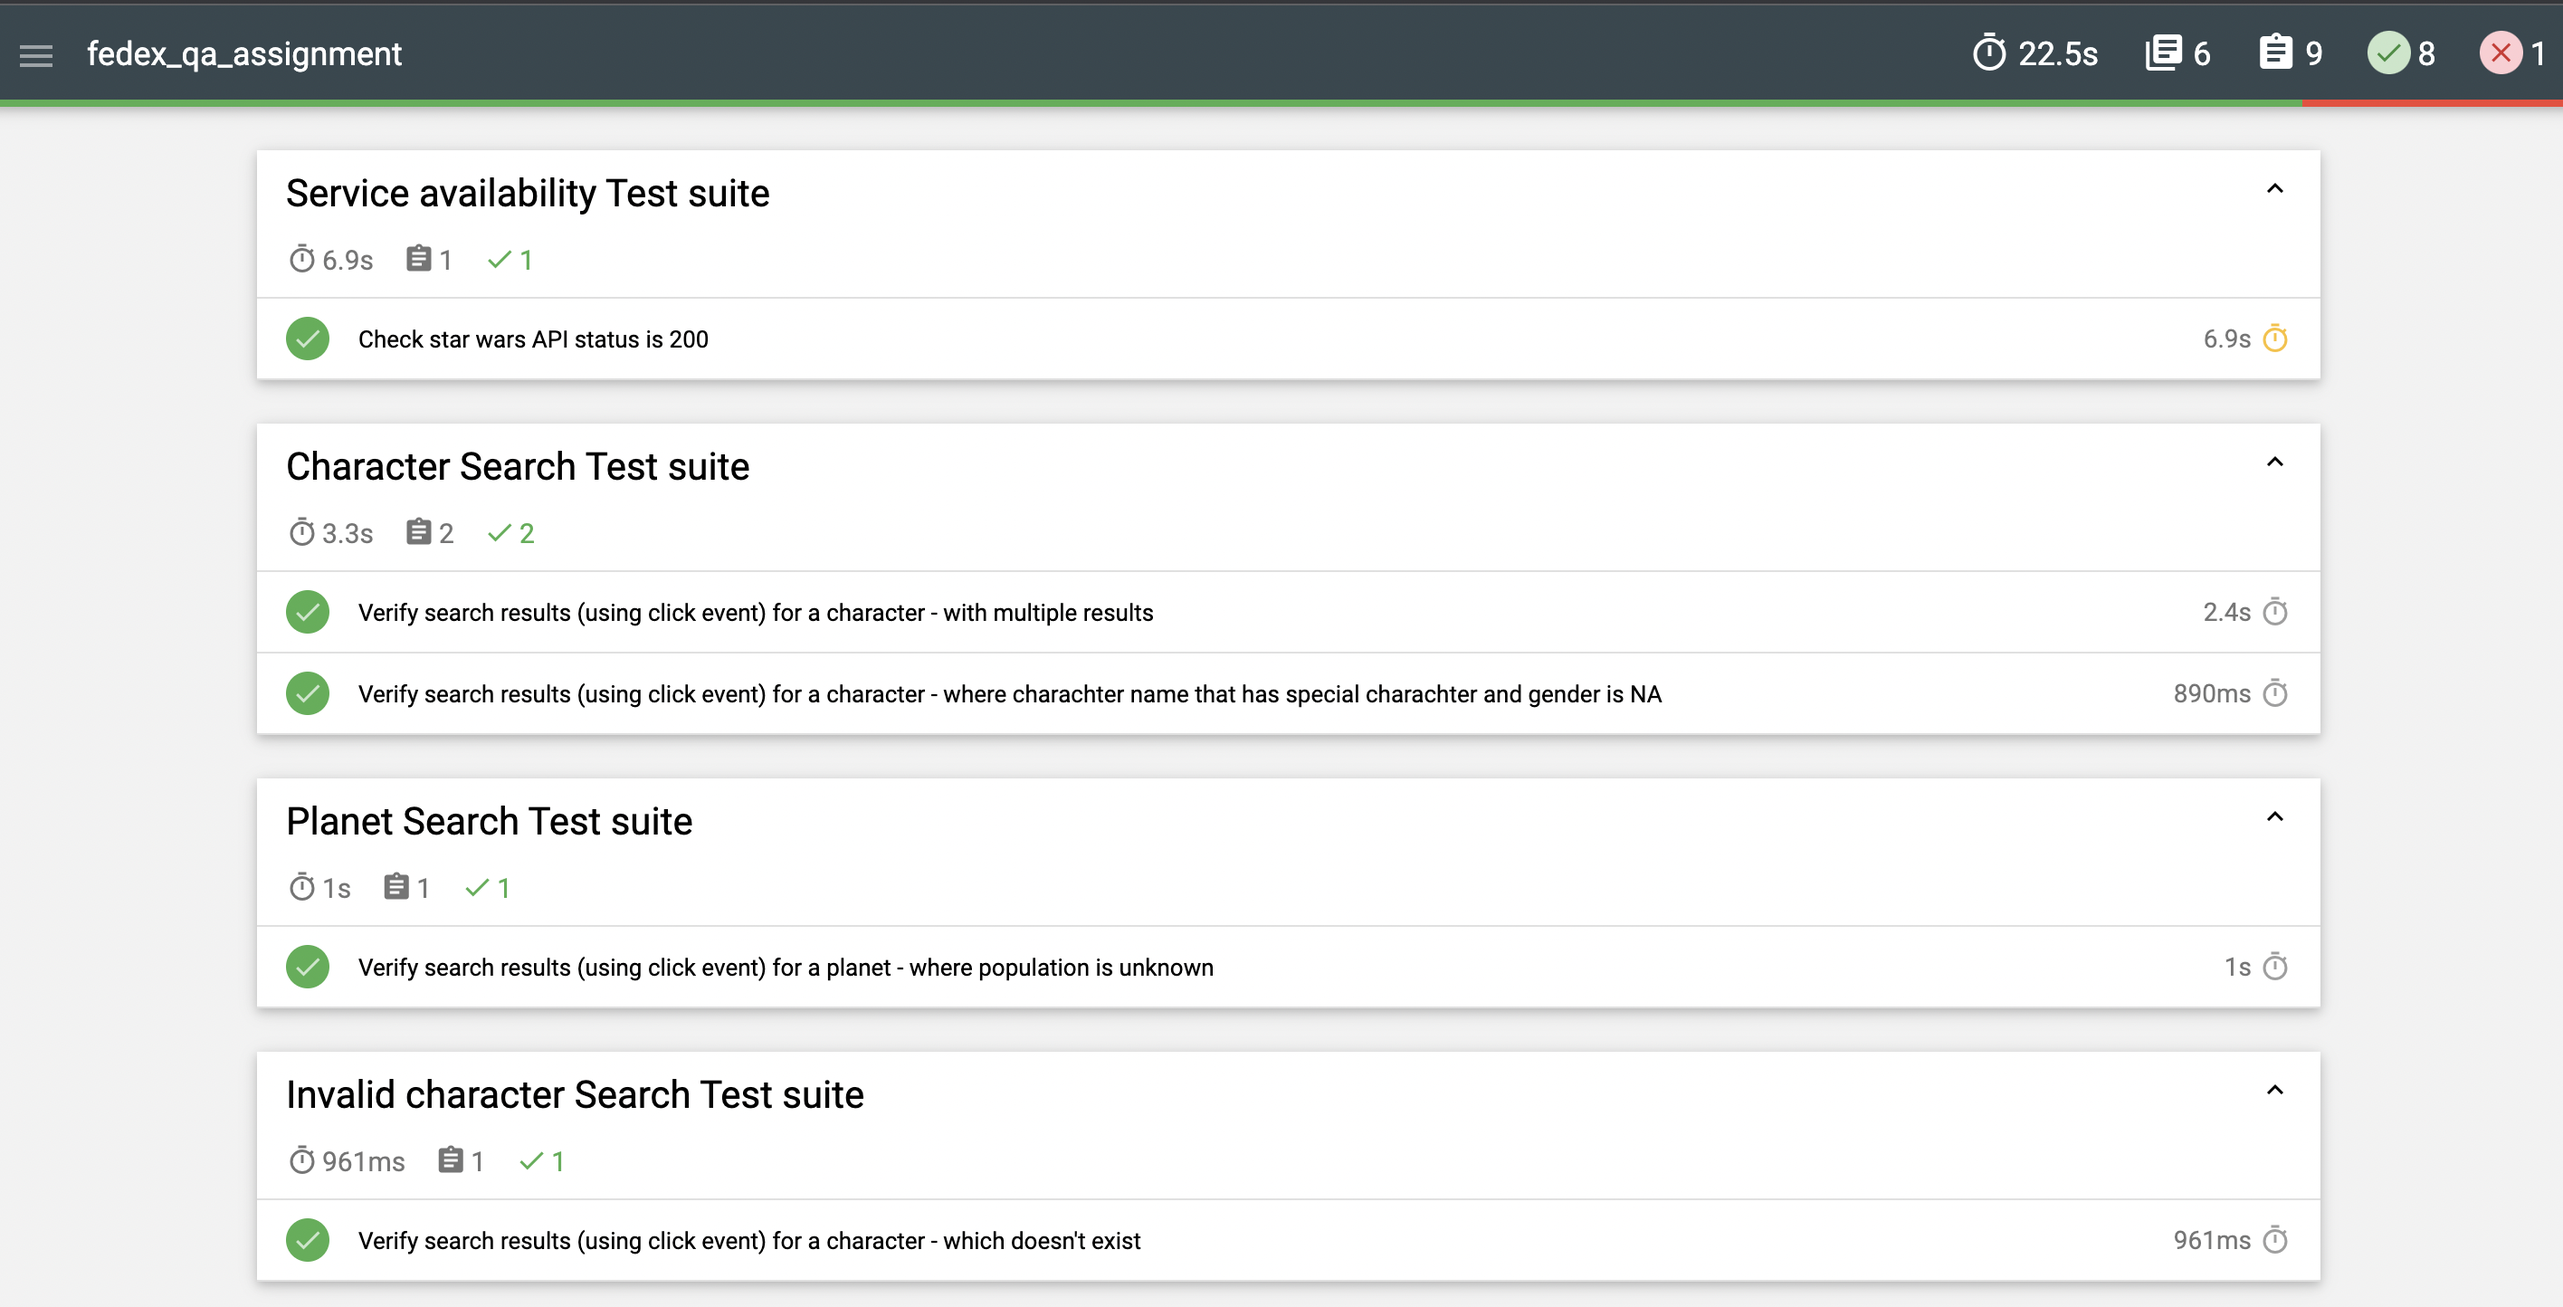
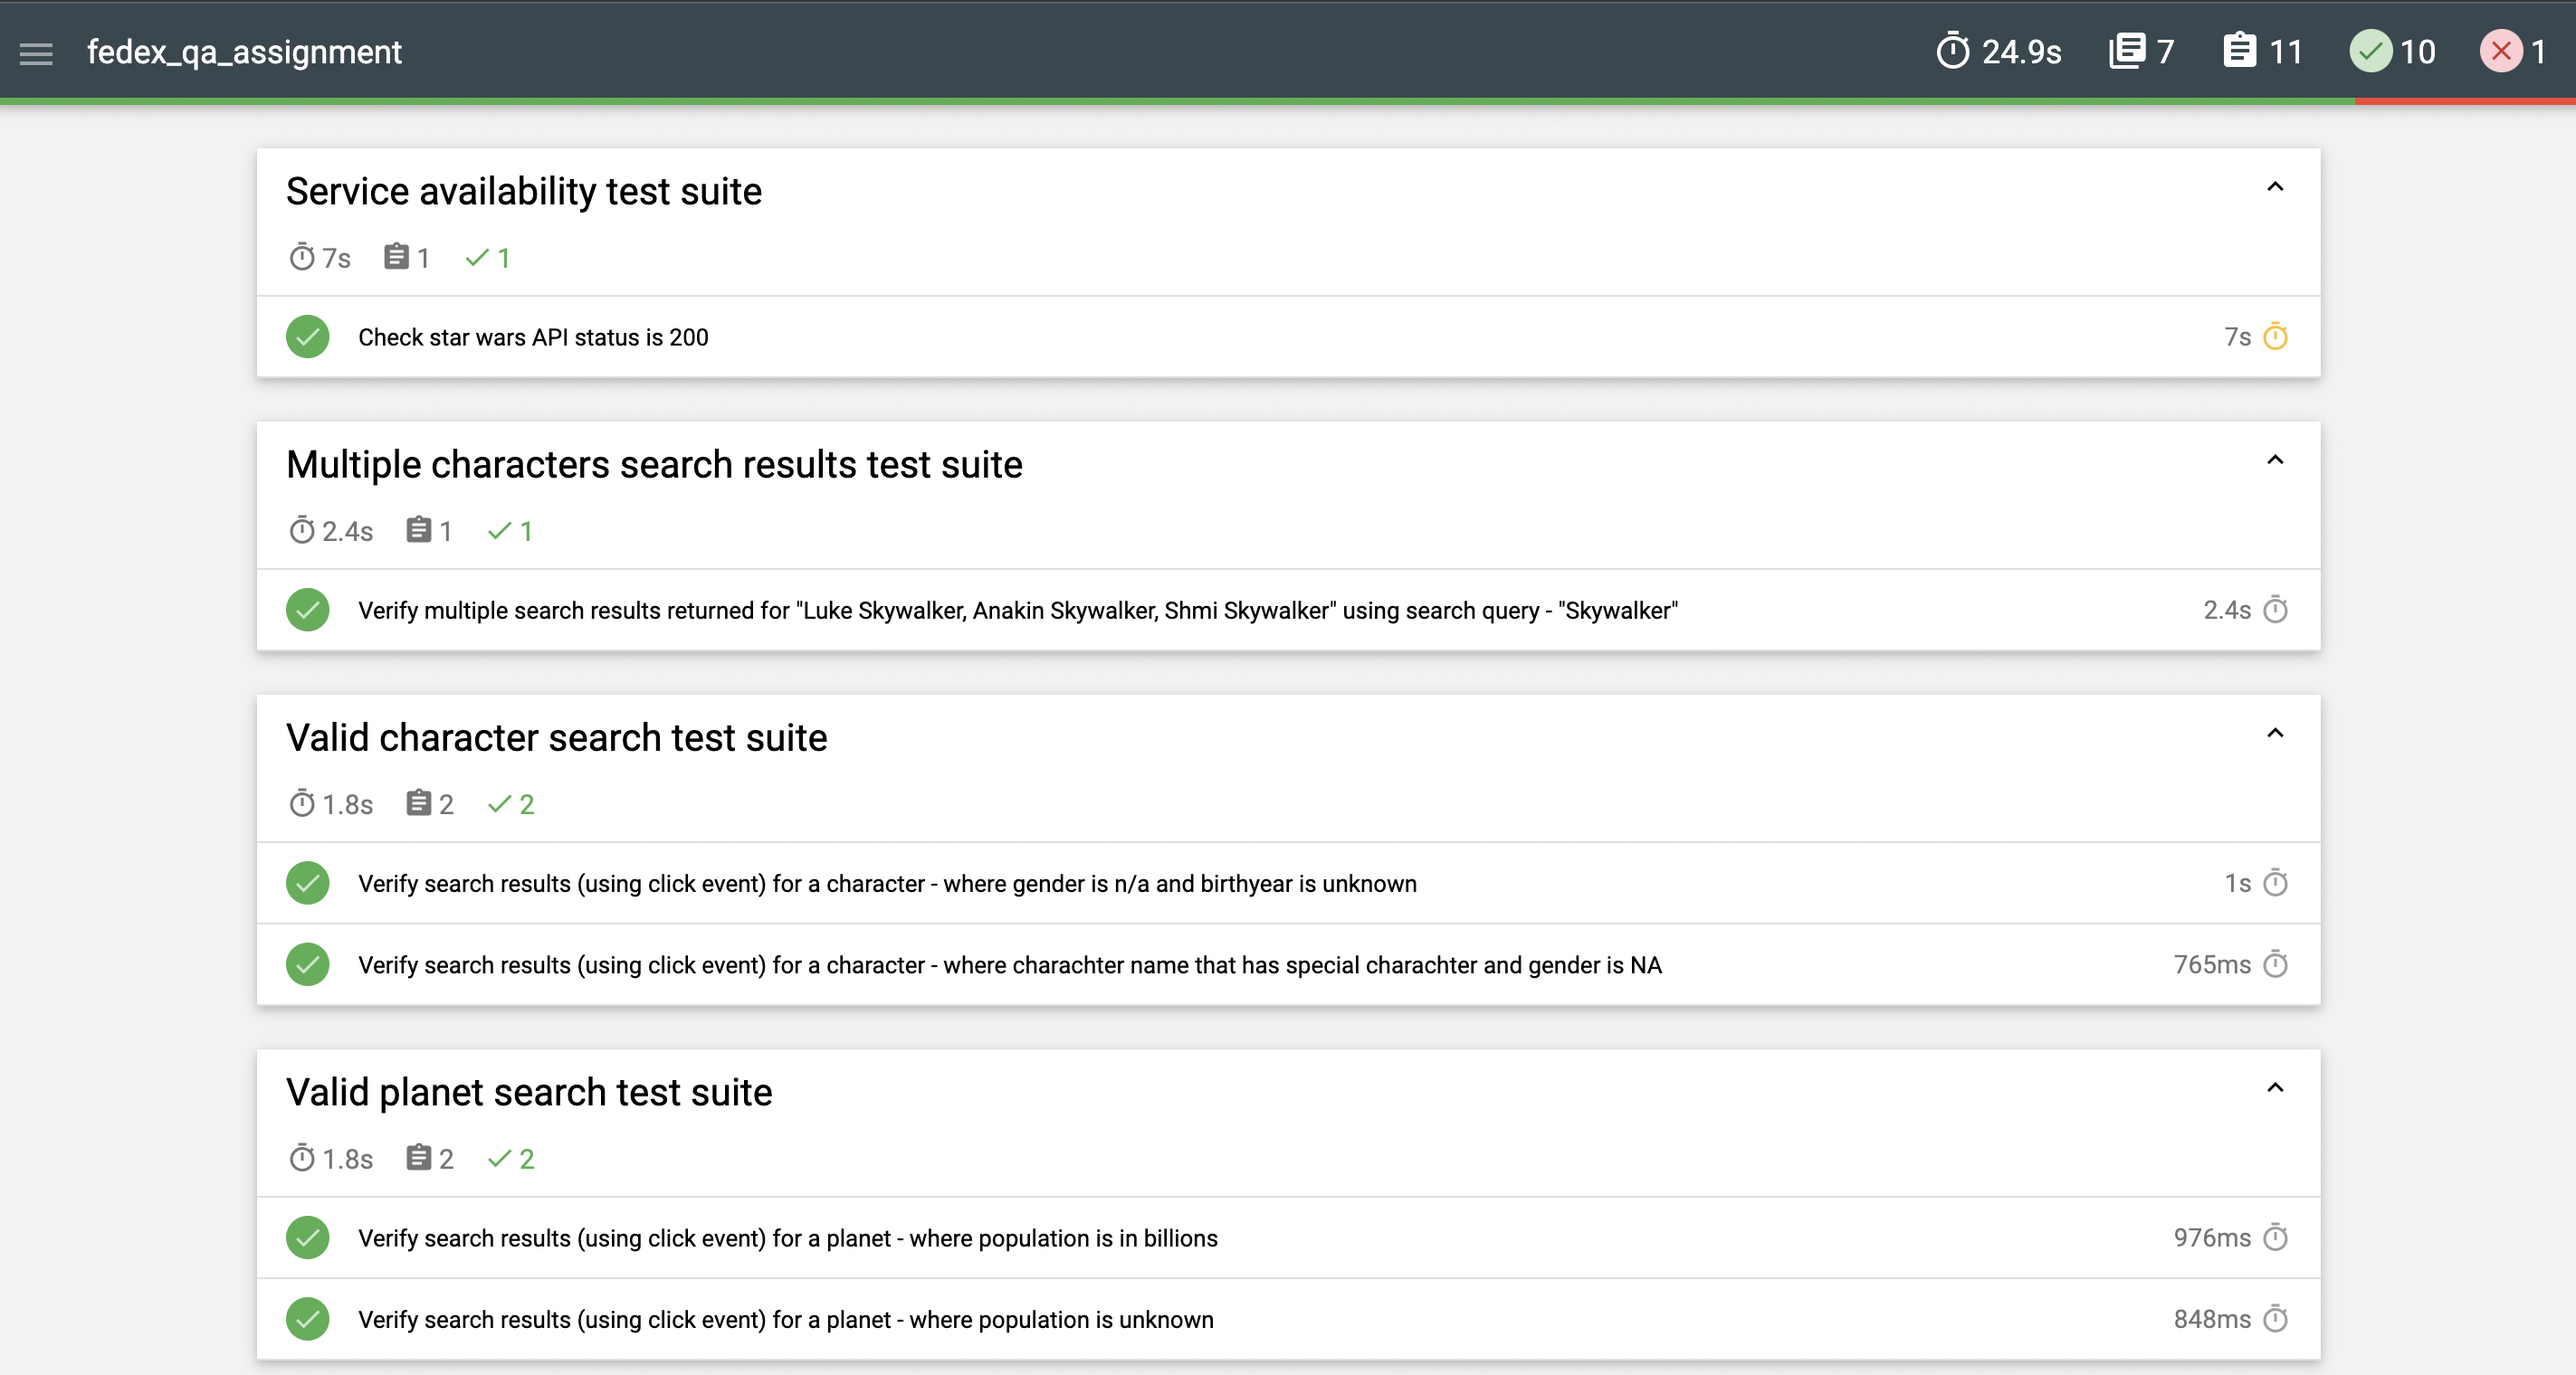
Updated assessment solution and screenshot

Changed region(s): [[0.0932, 0.1247, 0.9011, 0.9972], [0.0, 0.0, 1.0, 0.0935], [0.839, 0.8726, 0.8701, 0.9037]]

diff --git a/ASSESSMENT-SOLUTION.MD b/ASSESSMENT-SOLUTION.MD
@@ -24,8 +24,8 @@
 If you are executing the tests on a windows machine you will have to adjust the slashes in the script block of package.json file!
 
 ## Test execution summary
-- No of tests = 9
-    - Passing = 8
+- No of tests = 10
+    - Passing = 9
     - Failing = 1 (Bug-1)
 
 ![Test execution summary report screenshot](https://github.com/linktorahulgupta/fedex-assignment/blob/4da2b58fac01b966a45f0adf85907dbd9abfe3a7/test-execution-summary-screenshot.png)
